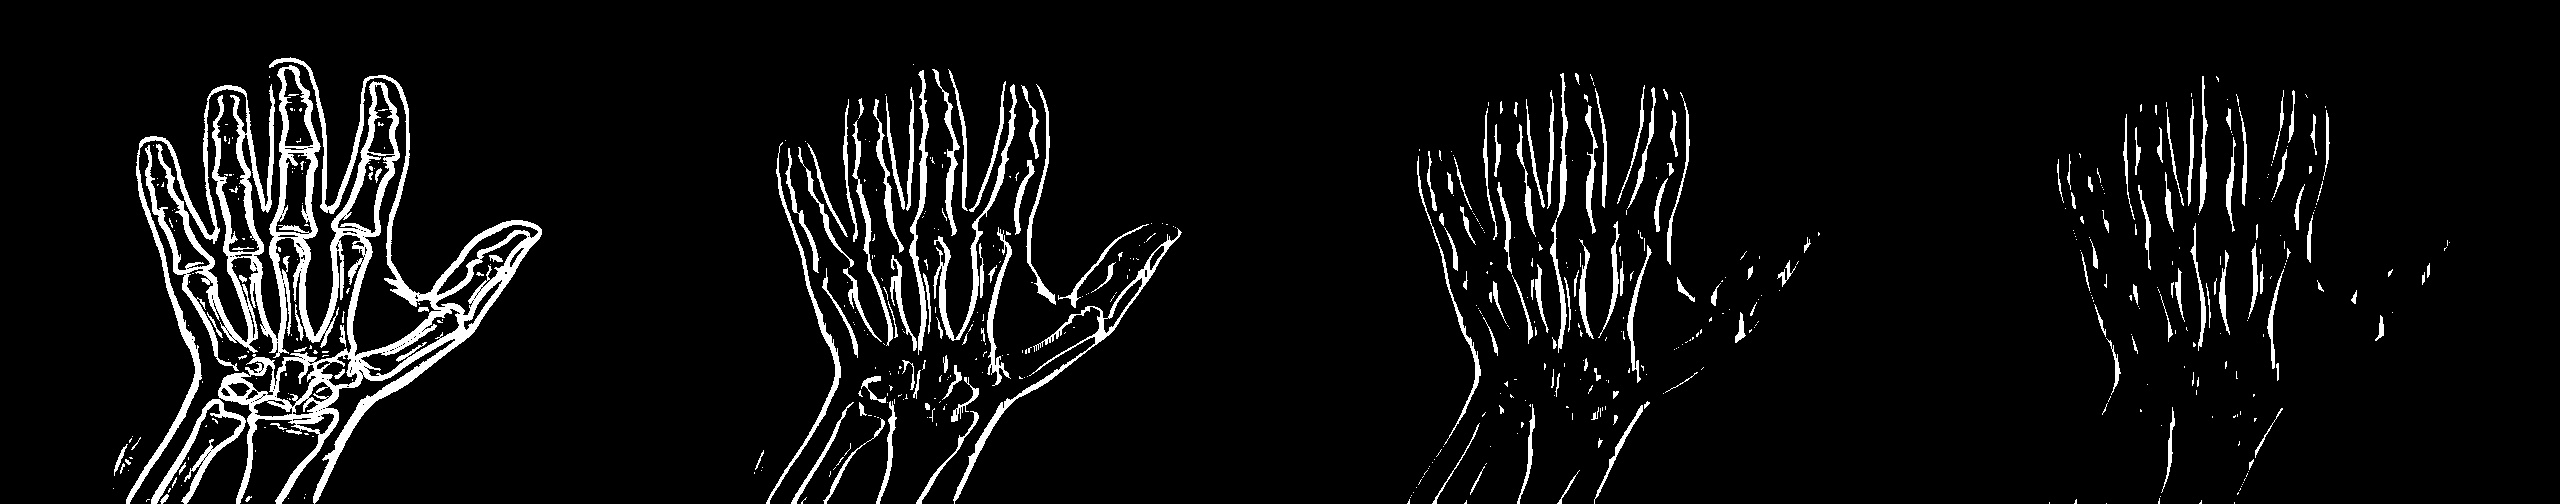
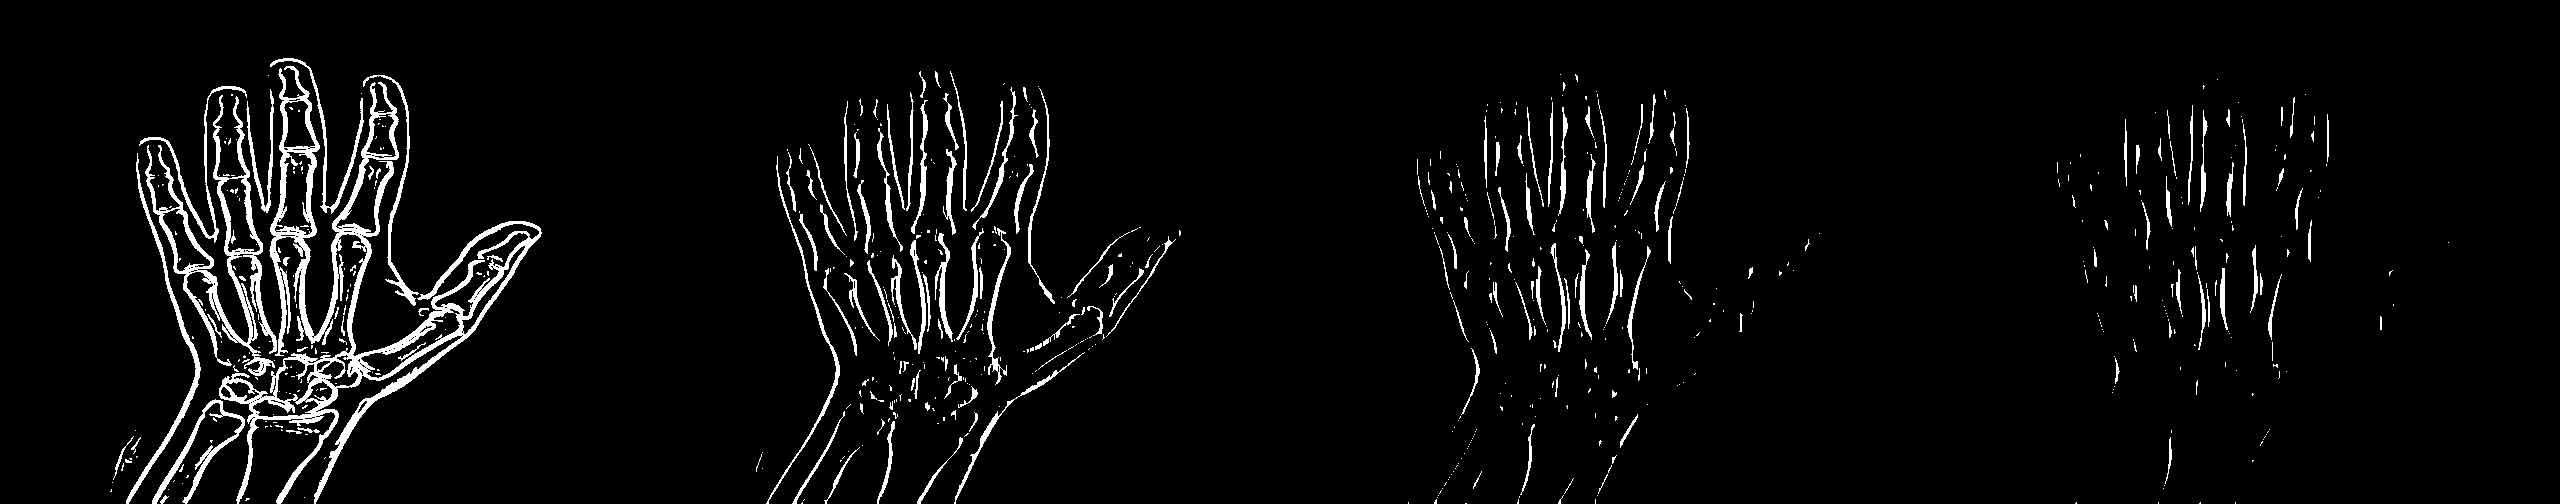
Experimenting with border detection. Using canny border detection.

diff --git a/main.py b/main.py
@@ -105,9 +105,36 @@ def main(filename: str) -> None:
   ## Border detection
   # gaussianBlurred = cv.GaussianBlur(outputImage, (5, 5), 0)
 
-  gaussianSigmas = [0, 1, 2, 3, 4, 5, 6, 7, 8, 9, 10]
-  for i in range(11):
-    gaussianBlurred = cv.GaussianBlur(outputImage, (5, 5), gaussianSigmas[i])
+  # gaussianSigmas = [0, 1, 2, 3, 4, 5, 6, 7, 8, 9, 10]
+  # for i in range(11):
+  #   gaussianBlurred = cv.GaussianBlur(outputImage, (5, 5), gaussianSigmas[i])
+
+  #   blockSize = (3, 3)
+  #   padSize = blockSize[0] // 2 # Same padding than Gaussian Blur filter
+  #   paddedImage = np.pad(gaussianBlurred, padSize, mode='reflect')
+    
+  #   bordersDetected = np.zeros_like(gaussianBlurred, dtype=np.float32)
+
+  #   for y in range(gaussianBlurred.shape[0]):
+  #     for x in range(gaussianBlurred.shape[1]):
+  #         window = paddedImage[y:y + blockSize[0], x:x + blockSize[1]]
+  #         difference = window.max() - window.min()
+  #         bordersDetected[y, x] = difference
+
+  #   # Normalize the image between 0 and 255 before showing to improve visualization.
+  #   outputImage = cv.normalize(outputImage, None, 0, 255, cv.NORM_MINMAX, cv.CV_8U)
+  #   gaussianBlurred = cv.normalize(gaussianBlurred, None, 0, 255, cv.NORM_MINMAX, cv.CV_8U)
+  #   bordersDetected = cv.normalize(bordersDetected, None, 0, 255, cv.NORM_MINMAX, cv.CV_8U)
+
+  #   concatenated = np.concatenate((outputImage, gaussianBlurred, bordersDetected), axis=1)
+  #   cv.imwrite(f'docs/local_images/{os.path.basename(filename)}' + (
+  #               f'_bordersigma{gaussianSigmas[i]}.jpg'),
+  #               concatenated)
+
+  ## Border detection, statistical range method
+  kernelSizes = [3, 5, 7, 9]
+  for i in range(4):
+    gaussianBlurred = cv.GaussianBlur(outputImage, (kernelSizes[i], kernelSizes[i]), 0)
 
     blockSize = (3, 3)
     padSize = blockSize[0] // 2 # Same padding than Gaussian Blur filter
@@ -125,13 +152,73 @@ def main(filename: str) -> None:
     outputImage = cv.normalize(outputImage, None, 0, 255, cv.NORM_MINMAX, cv.CV_8U)
     gaussianBlurred = cv.normalize(gaussianBlurred, None, 0, 255, cv.NORM_MINMAX, cv.CV_8U)
     bordersDetected = cv.normalize(bordersDetected, None, 0, 255, cv.NORM_MINMAX, cv.CV_8U)
+  
+  ## Border detection, canny edge detector
+  minThresholds = [30, 51, 70]
+  maxThresholds = [135, 150, 165]
+  kernelSizes = [3, 5, 7, 9]
+  for minThreshold  in minThresholds:
+    for maxThreshold in maxThresholds:
+      for kernelSize in kernelSizes:
+        gaussianBlurred = cv.GaussianBlur(outputImage, (kernelSize, kernelSize), 0)
+        gaussianBlurred = cv.normalize(gaussianBlurred, None, 0, 255, cv.NORM_MINMAX, cv.CV_8U)
 
-    concatenated = np.concatenate((outputImage, gaussianBlurred, bordersDetected), axis=1)
-    cv.imwrite(f'docs/{os.path.basename(filename)}' + (
-                f'_bordersigma{gaussianSigmas[i]}.jpg'),
-                concatenated)
+        bordersDetected = cv.Canny(gaussianBlurred, minThreshold, maxThreshold)
+        bordersDetected = cv.normalize(bordersDetected, None, 0, 255, cv.NORM_MINMAX, cv.CV_8U)
 
-  # cv.imwrite(f'docs/{os.path.basename(filename)}_bordersDetected.jpg', bordersDetected)
+        # contours, _ = cv.findContours(bordersDetected, cv.RETR_EXTERNAL, cv.CHAIN_APPROX_SIMPLE)
+        # largest_contour = max(contours, key=cv.contourArea)
+        # mask = np.zeros_like(bordersDetected, dtype=np.uint8)
+        # cv.drawContours(mask, [largest_contour], -1, 255, thickness=cv.FILLED)
+        # mask = cv.bitwise_not(mask)
+        # bordersDetected = cv.bitwise_and(bordersDetected, bordersDetected, mask=mask)
+
+        numLabels, markers = cv.connectedComponents(bordersDetected)
+
+        kernel = np.ones((kernelSize, kernelSize), np.uint8)
+        closed_image = cv.morphologyEx(bordersDetected,
+            cv.MORPH_CLOSE, kernel, iterations=1)
+
+        distanceTransform = cv.distanceTransform(bordersDetected, cv.DIST_L2, 5)
+        distanceTransform = cv.normalize(distanceTransform, None, 255, 0, cv.NORM_MINMAX, cv.CV_8U)
+
+        markers = markers.astype(np.int32)
+        distanceTransform3Channel = cv.merge((distanceTransform, distanceTransform, distanceTransform))
+        watershedImage = cv.watershed(distanceTransform3Channel, markers)
+        watershedImage = watershedImage.astype(np.uint8)
+
+        coloredImage = np.zeros((bordersDetected.shape[0], bordersDetected.shape[1], 3), dtype=np.uint8)
+        uniqueLabels = np.unique(watershedImage)
+        for label in uniqueLabels:
+           if label == 0:
+              continue
+          
+           mask = watershedImage == label
+           b, g, r = np.random.randint(0, 256, 3)
+           coloredImage[mask] = (b, g, r)
+
+        # if numLabels > 1:
+        #   cmap = plt.cm.get_cmap('hsv', numLabels)  
+        #   colored_markers = np.zeros((markers.shape[0], markers.shape[1], 3), dtype=np.uint8)
+        #   for label in range(1, numLabels): # Skip background label 0
+        #       color = np.array(cmap(label)[:3]) * 255 # Get RGB color and convert to 0-255 range
+        #       colored_markers[markers == label] = color.astype(np.uint8)
+        # else:
+        #     colored_markers = np.zeros_like(outputImage, dtype=np.uint8)
+
+        concatenated = np.concatenate((cv.cvtColor(outputImage, cv.COLOR_GRAY2BGR),
+                                                    cv.cvtColor(gaussianBlurred, cv.COLOR_GRAY2BGR),
+                                                    cv.cvtColor(bordersDetected, cv.COLOR_GRAY2BGR),
+                                                    cv.cvtColor(closed_image, cv.COLOR_GRAY2BGR),
+                                                    coloredImage,
+                                                    ), axis=1)
+        cv.imwrite(f'docs/local_images/{os.path.basename(filename)}' \
+                    f'_bordercanny_withfill_minThresh{minThreshold}' \
+                    f'_maxThresh{maxThreshold}_kernelSize{kernelSize}' \
+                    f'.jpg',
+                    concatenated)
+
+  # cv.imwrite(f'docs/local_images/{os.path.basename(filename)}_bordersDetected.jpg', bordersDetected)
 
   # showcase before and after
   # f, axs = plt.subplots(1, 7)
@@ -157,38 +244,38 @@ def main(filename: str) -> None:
   # axs[6].set_title('Border detection')
   # plt.show()
 
-  _, bordersDetectedThresholded = cv.threshold(bordersDetected, 50, 255, cv.THRESH_BINARY)
-  cv.imshow('binary', (bordersDetectedThresholded))
+  # _, bordersDetectedThresholded = cv.threshold(bordersDetected, 50, 255, cv.THRESH_BINARY)
+  # cv.imshow('binary', (bordersDetectedThresholded))
 
-  erosionSizes = [2, 3, 4, 5, 6, 7, 8, 9, 10]
-  for i in range(9):
-    erosionKernel = np.ones(erosionSizes[i], np.uint8)
-    erosionResult = cv.erode(bordersDetectedThresholded, erosionKernel, iterations=1)
-    erosionResult2 = cv.erode(bordersDetectedThresholded, erosionKernel, iterations=2)
-    erosionResult3 = cv.erode(bordersDetectedThresholded, erosionKernel, iterations=3)
-    concatenated = np.concatenate((bordersDetectedThresholded, erosionResult,
-                                   erosionResult2, erosionResult3), axis=1)
-    cv.imwrite(f'docs/{os.path.basename(filename)}' + (
-                f'_binarybordererosion{erosionSizes[i]}.jpg'),
-                concatenated)
+  # erosionSizes = [2, 3, 4, 5, 6, 7, 8, 9, 10]
+  # for i in range(9):
+  #   erosionKernel = np.ones(erosionSizes[i], np.uint8)
+  #   erosionResult = cv.erode(bordersDetectedThresholded, erosionKernel, iterations=1)
+  #   erosionResult2 = cv.erode(bordersDetectedThresholded, erosionKernel, iterations=2)
+  #   erosionResult3 = cv.erode(bordersDetectedThresholded, erosionKernel, iterations=3)
+  #   concatenated = np.concatenate((bordersDetectedThresholded, erosionResult,
+  #                                  erosionResult2, erosionResult3), axis=1)
+  #   cv.imwrite(f'docs/local_images/{os.path.basename(filename)}' + (
+  #               f'_binarybordererosion{erosionSizes[i]}.jpg'),
+  #               concatenated)
 
-  openingSizes = [2, 3, 4, 5, 6, 7, 8, 9, 10]
-  for i in range(9):
-    openKernel = np.ones(openingSizes[i], np.uint8)
-    openResult = cv.morphologyEx(bordersDetectedThresholded, cv.MORPH_OPEN, openKernel)
-    concatenated = np.concatenate((bordersDetectedThresholded, openResult), axis=1)
-    cv.imwrite(f'docs/{os.path.basename(filename)}' + (
-                f'_binaryborderopening{openingSizes[i]}.jpg'),
-                concatenated)
+  # openingSizes = [2, 3, 4, 5, 6, 7, 8, 9, 10]
+  # for i in range(9):
+  #   openKernel = np.ones(openingSizes[i], np.uint8)
+  #   openResult = cv.morphologyEx(bordersDetectedThresholded, cv.MORPH_OPEN, openKernel)
+  #   concatenated = np.concatenate((bordersDetectedThresholded, openResult), axis=1)
+  #   cv.imwrite(f'docs/local_images/{os.path.basename(filename)}' + (
+  #               f'_binaryborderopening{openingSizes[i]}.jpg'),
+  #               concatenated)
 
-  closingSizes = [2, 3, 4, 5, 6, 7, 8, 9, 10]
-  for i in range(9):
-    closingKernel = np.ones(closingSizes[i], np.uint8)
-    closingResult = cv.morphologyEx(bordersDetectedThresholded, cv.MORPH_OPEN, closingKernel)
-    concatenated = np.concatenate((bordersDetectedThresholded, closingResult), axis=1)
-    cv.imwrite(f'docs/{os.path.basename(filename)}' + (
-                f'_binaryborderclosing{openingSizes[i]}.jpg'),
-                concatenated)
+  # closingSizes = [2, 3, 4, 5, 6, 7, 8, 9, 10]
+  # for i in range(9):
+  #   closingKernel = np.ones(closingSizes[i], np.uint8)
+  #   closingResult = cv.morphologyEx(bordersDetectedThresholded, cv.MORPH_OPEN, closingKernel)
+  #   concatenated = np.concatenate((bordersDetectedThresholded, closingResult), axis=1)
+  #   cv.imwrite(f'docs/local_images/{os.path.basename(filename)}' + (
+  #               f'_binaryborderclosing{openingSizes[i]}.jpg'),
+  #               concatenated)
 
   # numMinThresholds = np.linspace(0, 255, 16)
   # f, axs = plt.subplots(4, 12)
@@ -203,34 +290,34 @@ def main(filename: str) -> None:
 
       # concatenated = np.concatenate(
       #   (bordersDetectedThresholded, markers * (255 / numLabels), distanceTransform), axis=1)
-      # cv.imwrite(f'docs/{os.path.basename(filename)}_minThreshold{minThreshold}.jpg', concatenated)
+      # cv.imwrite(f'docs/local_images/{os.path.basename(filename)}_minThreshold{minThreshold}.jpg', concatenated)
 
-  _, markers = cv.connectedComponents(bordersDetectedThresholded)
-  cv.imshow('Markers', (markers * (255 / 3)).astype(np.uint8))
-  distanceTransform = cv.distanceTransform(bordersDetectedThresholded, cv.DIST_L2, 5)
-  distanceTransform = cv.normalize(distanceTransform, None, 255, 0, cv.NORM_MINMAX, cv.CV_8U)
-  cv.imshow('Distance transform', distanceTransform.astype(np.uint8))
+  # _, markers = cv.connectedComponents(bordersDetectedThresholded)
+  # cv.imshow('Markers', (markers * (255 / 3)).astype(np.uint8))
+  # distanceTransform = cv.distanceTransform(bordersDetectedThresholded, cv.DIST_L2, 5)
+  # distanceTransform = cv.normalize(distanceTransform, None, 255, 0, cv.NORM_MINMAX, cv.CV_8U)
+  # cv.imshow('Distance transform', distanceTransform.astype(np.uint8))
 
-  markers = markers.astype(np.int32)
-  distanceTransform3Channel = cv.merge((distanceTransform, distanceTransform, distanceTransform))
-  watershedImage = cv.watershed(distanceTransform3Channel, markers)
-  watershedImage = watershedImage.astype(np.uint8)
+  # markers = markers.astype(np.int32)
+  # distanceTransform3Channel = cv.merge((distanceTransform, distanceTransform, distanceTransform))
+  # watershedImage = cv.watershed(distanceTransform3Channel, markers)
+  # watershedImage = watershedImage.astype(np.uint8)
 
-  coloredImage = np.zeros((bordersDetected.shape[0], bordersDetected.shape[1], 3), dtype=np.uint8)
-  uniqueLabels = np.unique(watershedImage)
-  for label in uniqueLabels:
-     if label == 0:
-        continue
+  # coloredImage = np.zeros((bordersDetected.shape[0], bordersDetected.shape[1], 3), dtype=np.uint8)
+  # uniqueLabels = np.unique(watershedImage)
+  # for label in uniqueLabels:
+  #    if label == 0:
+  #       continue
      
-     mask = watershedImage == label
-     b, g, r = np.random.randint(0, 256, 3)
-     coloredImage[mask] = (b, g, r)
+  #    mask = watershedImage == label
+  #    b, g, r = np.random.randint(0, 256, 3)
+  #    coloredImage[mask] = (b, g, r)
 
-  cv.imshow('Borders Detected', bordersDetected)
-  cv.imshow('Watershed segmentation', coloredImage)
+  # cv.imshow('Borders Detected', bordersDetected)
+  # cv.imshow('Watershed segmentation', coloredImage)
   
-  cv.waitKey(0)
-  cv.destroyAllWindows()
+  # cv.waitKey(0)
+  # cv.destroyAllWindows()
 
  
 
